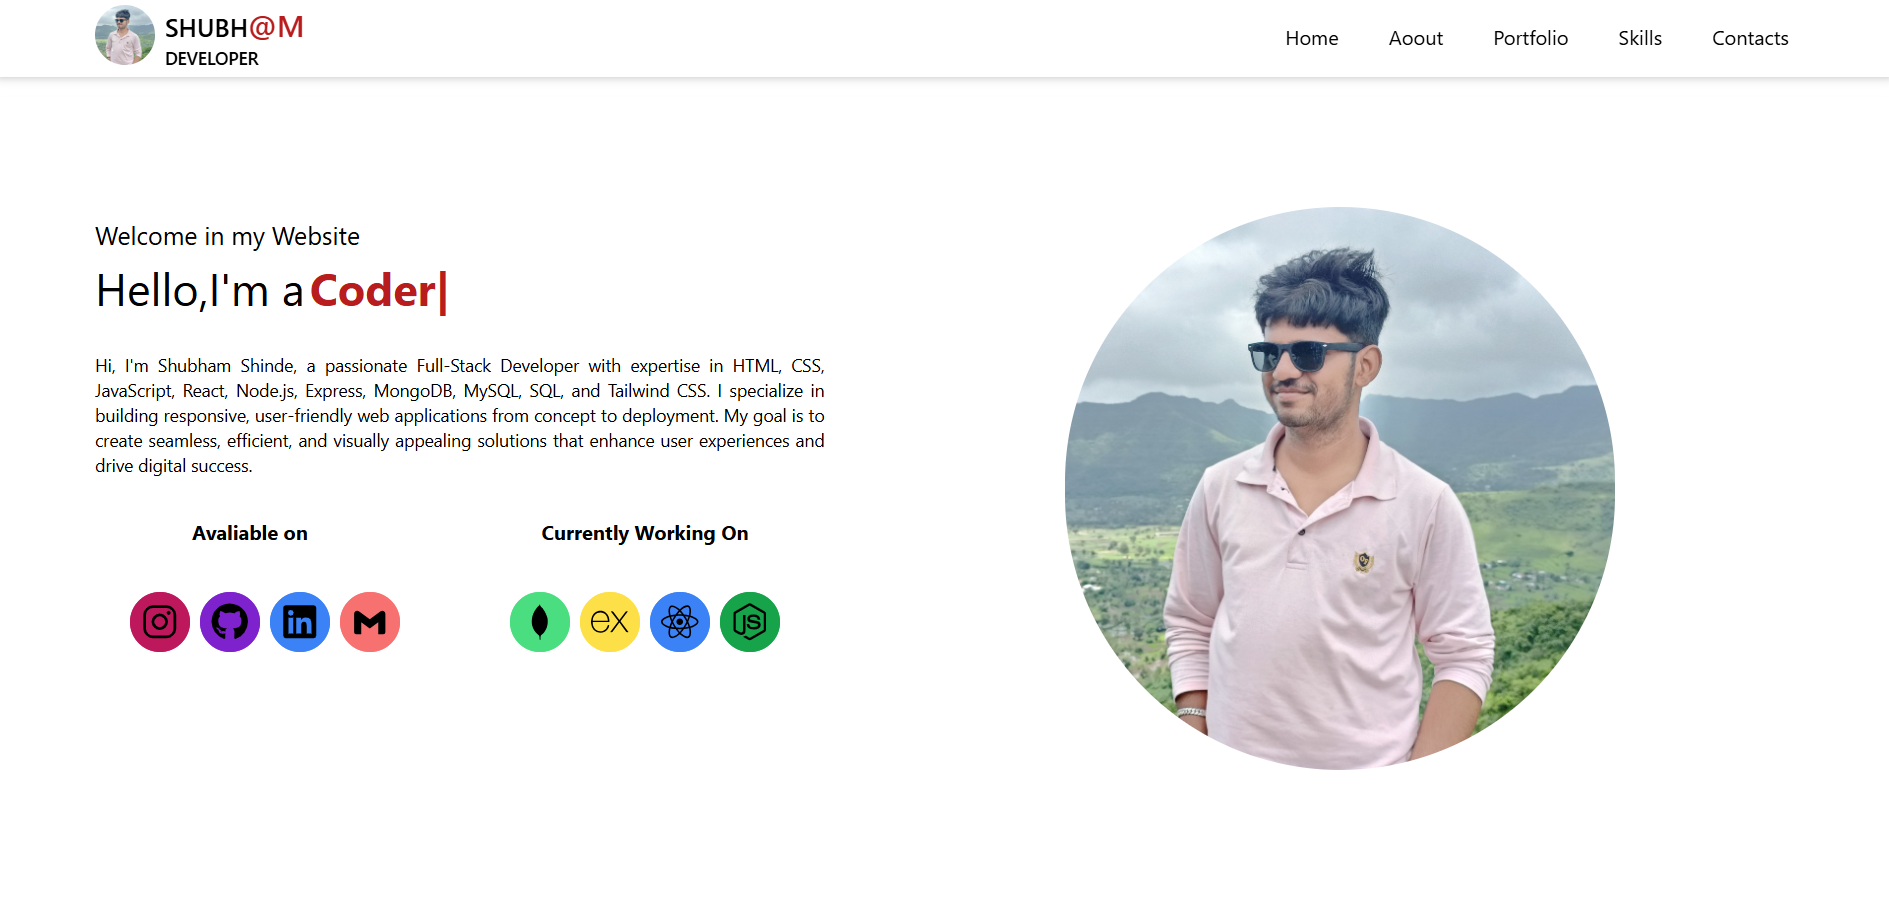
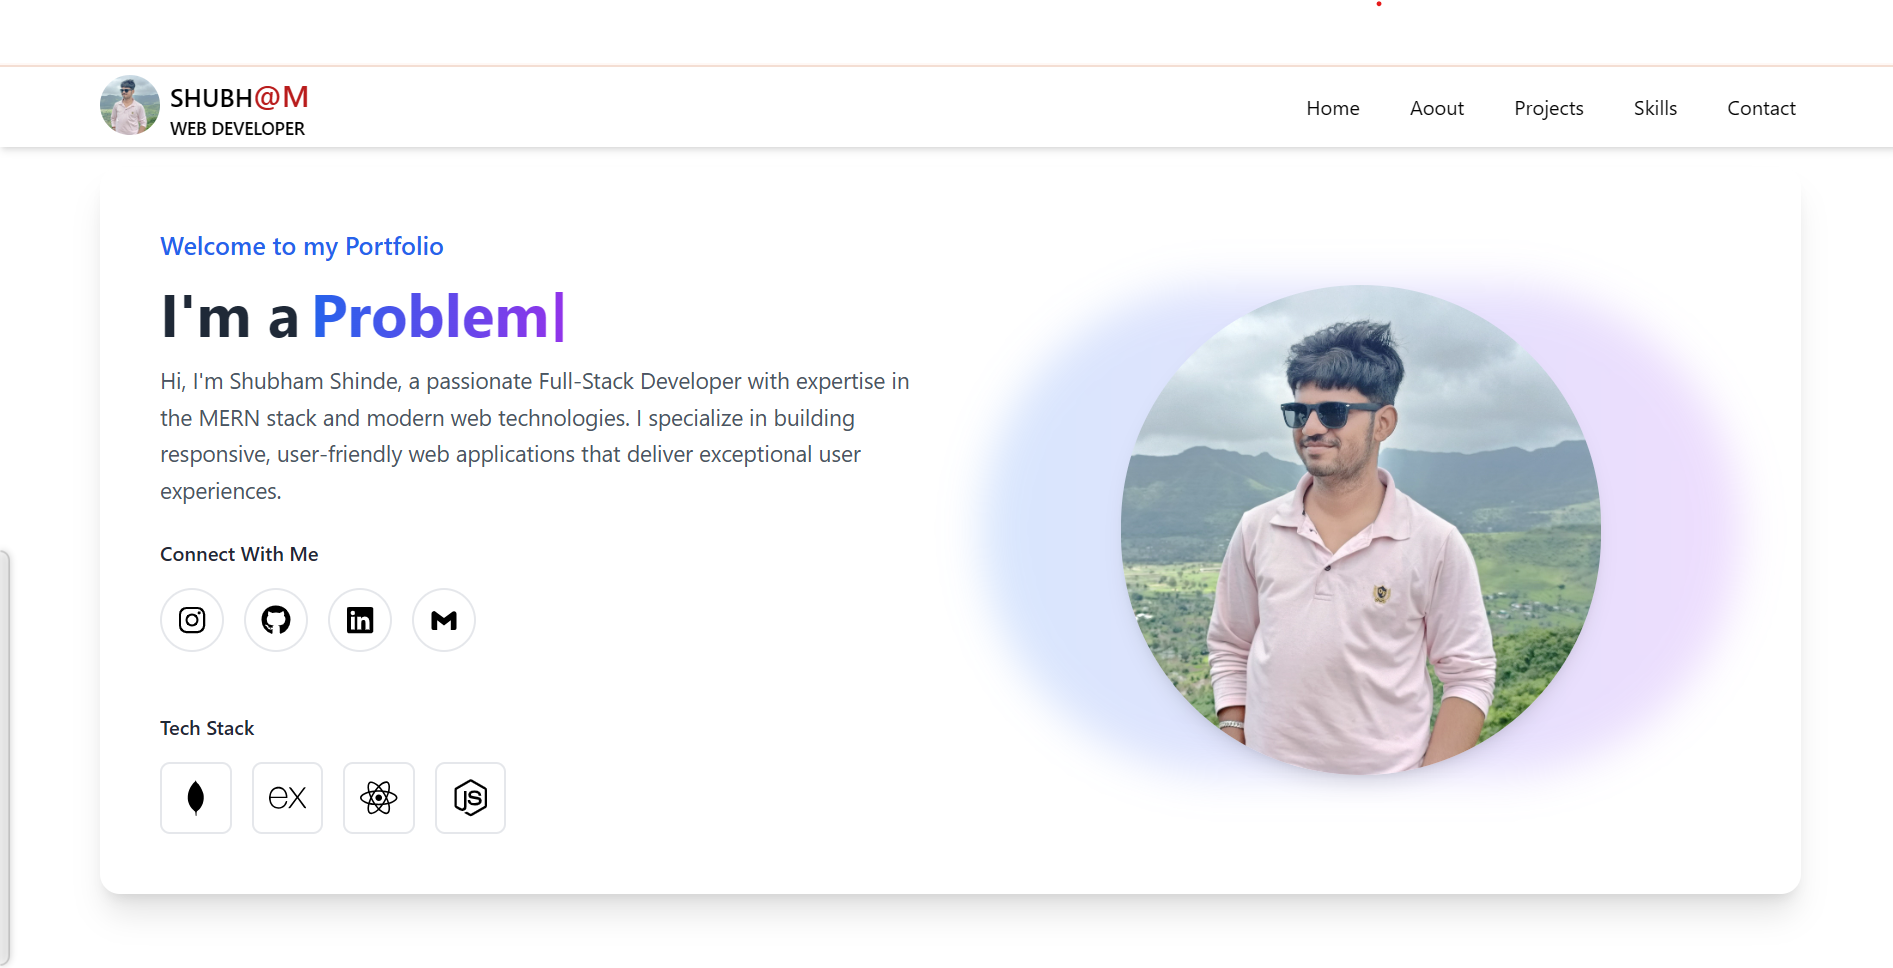
modify all application uis and pics

diff --git a/src/components/NavBar.jsx b/src/components/NavBar.jsx
@@ -3,6 +3,7 @@ import { AiOutlineMenu } from "react-icons/ai";
 import { IoCloseSharp } from "react-icons/io5";
 import { Link } from "react-scroll";
 import url from "../../public/IMG20240710115036.jpg";
+
 const NavBar = () => {
   const [menu, setmenu] = useState(false);
   const Navitems = [
@@ -12,7 +13,7 @@ const NavBar = () => {
     },
     {
       id: 2,
-      text: "Aoout",
+      text: "About", // Fixed typo
     },
     {
       id: 3,
@@ -29,58 +30,72 @@ const NavBar = () => {
   ];
 
   return (
-    <>
-      <div className="max-w-screen-2xl container mx-auto px-4 md:px-20 h-16 shadow-md fixed top-0 left-0 right-0 bottom-0 z-50 bg-white">
-        <div className=" flex justify-between items-center h-16 ">
-          <div className="flex space-x-2">
-            <img src={url} alt="profile" className=" h-12 w-12 rounded-full" />
-            <h1 className="font-semibold text-xl cursor-pointer">
-              SHUBH<span className="text-red-700 text-2xl">@M</span>
-              <p className="text-sm">WEB DEVELOPER</p>
-            </h1>
+    <div className="fixed top-0 left-0 right-0 z-50 bg-white/95 backdrop-blur-sm shadow-lg">
+      <div className="max-w-screen-2xl container mx-auto px-4 md:px-20">
+        <div className="flex justify-between items-center h-16">
+          {/* Logo Section */}
+          <div className="flex items-center space-x-3">
+            <div className="relative group">
+              <div className="absolute inset-0 bg-gradient-to-r from-blue-500 to-purple-500 rounded-full blur opacity-20 group-hover:opacity-40 transition-opacity duration-300"></div>
+              <img
+                src={url}
+                alt="profile"
+                className="relative h-12 w-12 rounded-full object-cover border-2 border-gray-100 hover:border-blue-500 transition-colors duration-300"
+              />
+            </div>
+            <div>
+              <h1 className="font-bold text-xl cursor-pointer">
+                SHUBH<span className="text-blue-600 text-2xl">@M</span>
+              </h1>
+              <p className="text-sm text-gray-600 font-medium">WEB DEVELOPER</p>
+            </div>
           </div>
-          <div className="">
-            <ul className="md:flex space-x-8 hidden ">
+
+          {/* Desktop Navigation */}
+          <div className="hidden md:block">
+            <ul className="flex items-center space-x-6">
               {Navitems.map(({ id, text }) => (
-                <li
-                  key={id}
-                  className="hover:scale-110 duration-150 cursor-pointer hover:bg-pink-300 rounded-2xl px-1 py-2  "
-                >
-                  {" "}
+                <li key={id}>
                   <Link
                     to={text}
                     smooth={true}
                     duration={500}
                     offset={-70}
-                    activeClass="active"
+                    className="px-4 py-2 rounded-lg font-medium text-gray-700 hover:text-blue-600 hover:bg-blue-50 transition-all duration-300"
+                    activeClass="text-blue-600 bg-blue-50"
                   >
                     {text}
                   </Link>
                 </li>
               ))}
             </ul>
-            <div onClick={() => setmenu(!menu)} className="md:hidden">
-              {menu ? <IoCloseSharp size={24} /> : <AiOutlineMenu size={24} />}
-            </div>
           </div>
+
+          {/* Mobile Menu Button */}
+          <button
+            onClick={() => setmenu(!menu)}
+            className="md:hidden p-2 rounded-lg hover:bg-gray-100 transition-colors duration-300"
+            aria-label={menu ? "Close menu" : "Open menu"}
+          >
+            {menu ? <IoCloseSharp size={24} /> : <AiOutlineMenu size={24} />}
+          </button>
         </div>
+
+        {/* Mobile Navigation */}
         {menu && (
-          <div className=" bg-white  ">
-            <ul className="md:hidden flex flex-col h-screen items-center justify-center space-y-3 text-xl ">
+          <div className="fixed inset-0 top-16 bg-white/95 backdrop-blur-sm md:hidden">
+            <ul className="flex flex-col items-center justify-center h-full space-y-6 text-lg">
               {Navitems.map(({ id, text }) => (
-                <li
-                  className="hover:scale-105 duration-150 cursor-pointer font-semibold  "
-                  key={id}
-                >
+                <li key={id}>
                   <Link
-                    onClick={() => setmenu(!menu)}
+                    onClick={() => setmenu(false)}
                     to={text}
                     smooth={true}
                     duration={500}
                     offset={-70}
-                    activeClass="active"
+                    className="block px-6 py-3 rounded-xl font-medium text-gray-700 hover:text-blue-600 hover:bg-blue-50 transition-all duration-300"
+                    activeClass="text-blue-600 bg-blue-50"
                   >
-                    {" "}
                     {text}
                   </Link>
                 </li>
@@ -89,7 +104,8 @@ const NavBar = () => {
           </div>
         )}
       </div>
-    </>
+    </div>
   );
 };
+
 export default NavBar;
